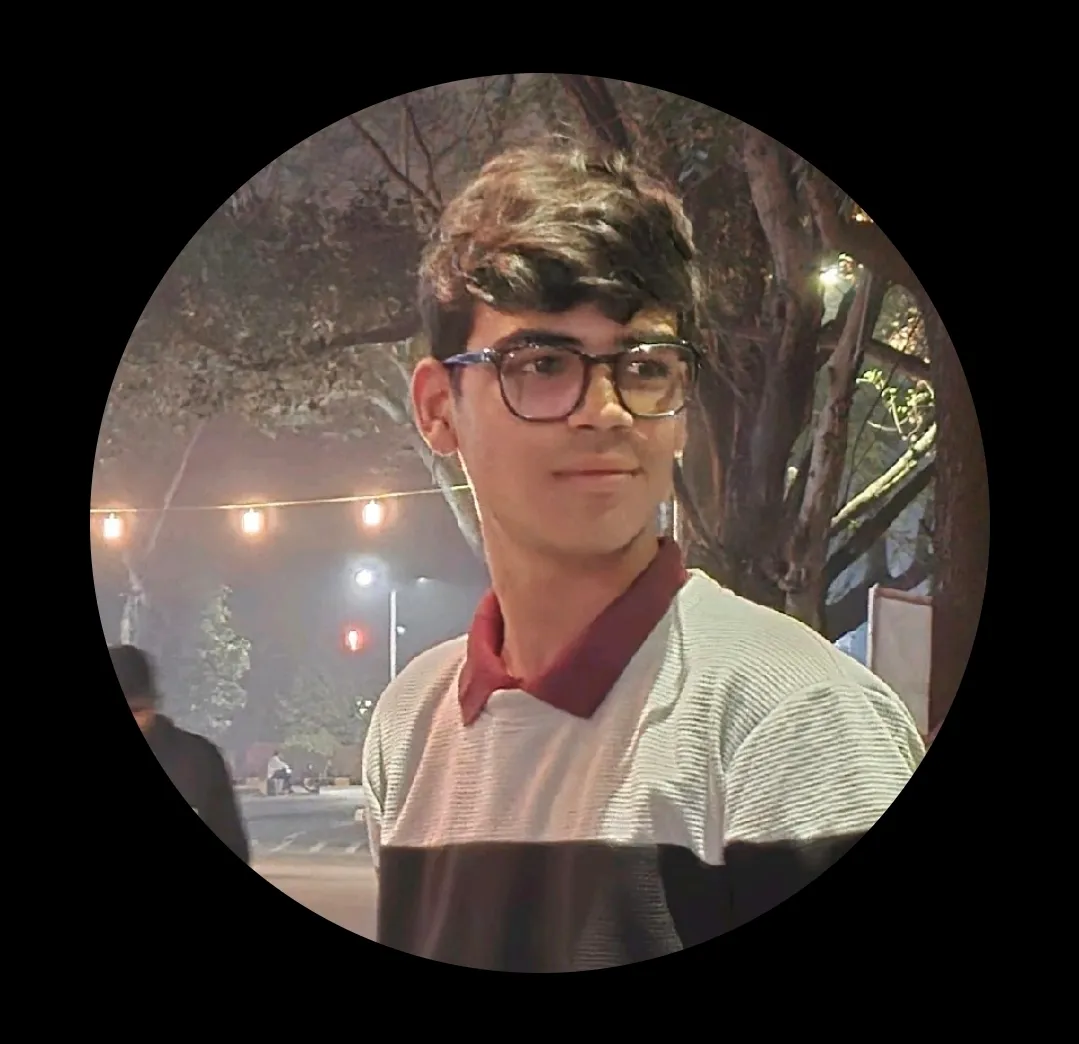
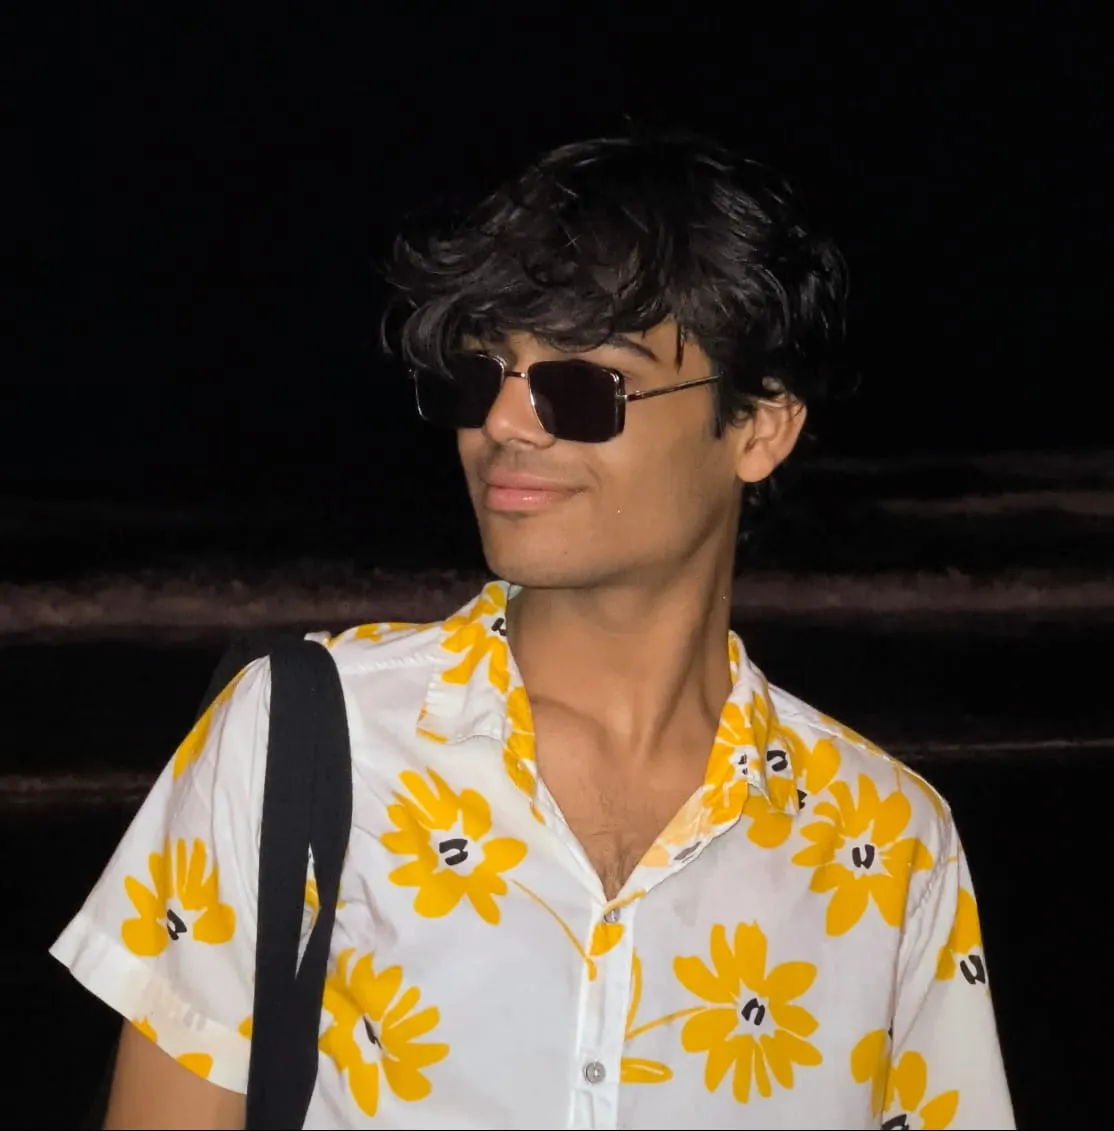
fix: update team photos, fix auth page theme colors

diff --git a/src/pages/TeamsPage.jsx b/src/pages/TeamsPage.jsx
@@ -18,8 +18,8 @@ const TEAM_DATA = {
   heads: [
     { name: 'Aman Rao', role: '', initials: 'AR', email: 'aman.cheaiitkgp@gmail.com', phone: '+91 8107901487', linkedin: 'https://www.linkedin.com/in/aman-rao-638461311/', photo: '/team/aman-rao.webp' },
     { name: 'Aman Rathore', role: '', initials: 'AR', email: 'amanrathore.cheaiitkgp@gmail.com', phone: '+91 9826338044', linkedin: 'https://www.linkedin.com/in/aman-rathore-65589831a/', photo: '/team/aman-rathore.webp' },
-    { name: 'Asanga Pillewan', role: '', initials: 'AP', email: 'asanga.cheaiitkgp@gmail.com', phone: '+91 9156605324', linkedin: 'https://www.linkedin.com/in/asanga-pillewan-iitkgp/' },
-    { name: 'Kosuru Praneetha', role: '', initials: 'KP', email: 'praneetha.cheaiitkgp@gmail.com', phone: '+91 9963174477', linkedin: 'https://www.linkedin.com/in/praneetha-kosuru-585971322/' },
+    { name: 'Asanga Pillewan', role: '', initials: 'AP', email: 'asanga.cheaiitkgp@gmail.com', phone: '+91 9156605324', linkedin: 'https://www.linkedin.com/in/asanga-pillewan-iitkgp/', photo: '/team/asanga-pillewan.webp'},
+    { name: 'Kosuru Praneetha', role: '', initials: 'KP', email: 'praneetha.cheaiitkgp@gmail.com', phone: '+91 9963174477', linkedin: 'https://www.linkedin.com/in/praneetha-kosuru-585971322/', photo:'/team/praneetha-kosuru.webp' },
     { name: 'Nikita Ameriya', role: '', initials: 'NA', email: 'nikitaameriya.cheaiitkgp@gmail.com', phone: '+91 8112289524', linkedin: 'https://www.linkedin.com/in/nikita-ameriya-b73630315/', photo: '/team/nikita-ameriya.webp' },
     { name: 'Smriti Tubid', role: '', initials: 'ST', email: 'smriti.cheaiitkgp@gmail.com', phone: '+91 6294714528', linkedin: 'https://www.linkedin.com/in/smriti-tubid-8a32972ab/', photo: '/team/smriti-tubid.webp' },
     { name: 'Sundram Kumar', role: '', initials: 'SK', email: 'sundram.cheaiitkgp@gmail.com', phone: '+91 7070038511', linkedin: 'https://www.linkedin.com/in/sundramkumar/', photo: '/team/sundram-kumar.webp' },
@@ -133,14 +133,14 @@ const MemberCard = ({ member, delay = 0 }) => {
             transform: 'scaleX(-1)',
           }}
         >
-          <p className="text-sm font-bold text-cyan-300 mb-4">{member.name}</p>
+          <p className="text-base font-bold text-cyan-300 mb-4">{member.name}</p>
           {member.email && (
-            <p className="text-[11px] text-slate-300 tracking-wide flex items-center gap-2 mb-2">
+            <p className="text-[14px] text-slate-300 tracking-wide flex items-center gap-2 mb-2">
               <span className="text-cyan-400">✉</span> {member.email}
             </p>
           )}
           {member.phone && (
-            <p className="text-[11px] text-slate-300 tracking-wide flex items-center gap-2 mb-4">
+            <p className="text-[14px] text-slate-300 tracking-wide flex items-center gap-2 mb-4">
               <span className="text-cyan-400">📞</span> {member.phone}
             </p>
           )}
@@ -242,14 +242,14 @@ const HODSection = () => {
                 pointerEvents: flipped ? 'auto' : 'none',
                 transform: 'scaleX(-1)',
               }}>
-              <p className="text-sm font-bold text-cyan-300 mb-4">{HOD_DATA.name}</p>
+              <p className="text-base font-bold text-cyan-300 mb-4">{HOD_DATA.name}</p>
               {HOD_DATA.email && (
-                <p className="text-[11px] text-slate-300 tracking-wide flex items-center gap-2 mb-2">
+                <p className="text-[14px] text-slate-300 tracking-wide flex items-center gap-2 mb-2">
                   <span className="text-cyan-400">✉</span> {HOD_DATA.email}
                 </p>
               )}
               {HOD_DATA.phone && (
-                <p className="text-[11px] text-slate-300 tracking-wide flex items-center gap-2 mb-4">
+                <p className="text-[14px] text-slate-300 tracking-wide flex items-center gap-2 mb-4">
                   <span className="text-cyan-400">📞</span> {HOD_DATA.phone}
                 </p>
               )}

diff --git a/src/pages/AuthPages.css b/src/pages/AuthPages.css
@@ -12,6 +12,28 @@
   flex-direction: column;
   position: relative;
   z-index: 1;
+
+  /* Locally override the theme's cyan tokens to match the blue-leaning
+     cyan used by NetworkCanvas (rgb(34,211,238)) instead of the global
+     --cyan-neon (#00f5d4), which reads as green next to the particle
+     background. Scoped here so it doesn't affect other pages that
+     already rely on the original --cyan-neon (scrollbar, cursor, etc). */
+  --cyan-neon: #22d3ee;
+  --cyan-bright: #22d3ee;
+  --cyan-glow: #67e8f9;
+  --border-cyan: rgba(34, 211, 238, 0.3);
+  --border-cyan-bright: rgba(34, 211, 238, 0.7);
+  --glow-sm: 0 0 8px rgba(34, 211, 238, 0.4);
+  --glow-md: 0 0 20px rgba(34, 211, 238, 0.5);
+  --glow-lg: 0 0 40px rgba(34, 211, 238, 0.4);
+
+  /* --bg-panel / --slate-dark are teal (G == B), which reads greener
+     than the blue-leaning navy backdrop NetworkCanvas paints
+     (rgba(14,33,44) — B > G). Nudging both toward blue-navy here so
+     the card and inputs sit visually in the same family as the
+     particle background, without changing these tokens elsewhere. */
+  --bg-panel: #0a2230;
+  --slate-dark: #0f2836;
 }
 
 .auth-main {
@@ -175,7 +197,7 @@
 .auth-field select:focus {
   outline: none;
   border-color: var(--cyan-neon);
-  box-shadow: 0 0 0 3px rgba(0, 245, 212, 0.15);
+  box-shadow: 0 0 0 3px rgba(34, 211, 238, 0.15);
 }
 
 .auth-field select option {
@@ -349,3 +371,4 @@
 @media (max-width: 480px) {
   .auth-modal-card { padding: 26px 20px; }
 }
+
